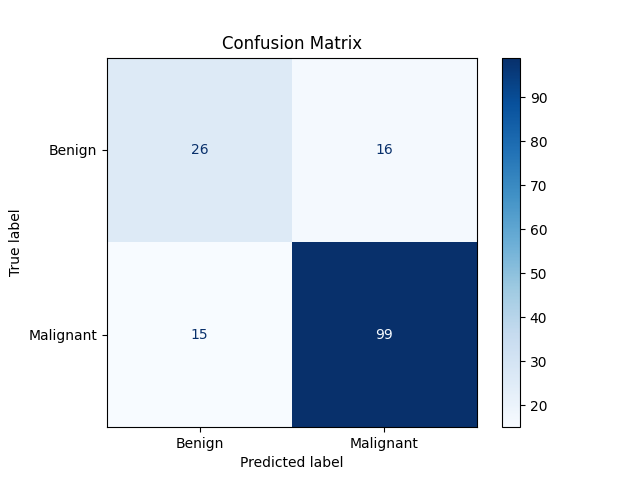
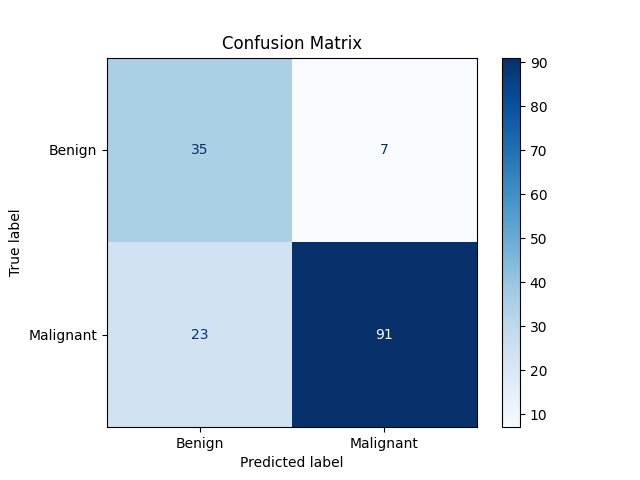
Add Random Forest Classifier implementation and evaluation metrics; update CNN-SVM metrics; include PCA visualization and confusion matrix; refactor main.py to import new ensemble module

diff --git a/A/CNN_DT_RF_Ensemble.py b/A/CNN_DT_RF_Ensemble.py
@@ -7,13 +7,14 @@ from sklearn.svm import SVC
 from sklearn.preprocessing import StandardScaler
 from sklearn.model_selection import GridSearchCV, learning_curve
 from sklearn.metrics import (
-    confusion_matrix, roc_curve, precision_recall_curve, accuracy_score, roc_auc_score
+    confusion_matrix, roc_curve, precision_recall_curve, accuracy_score, roc_auc_score, f1_score,classification_report, precision_score, recall_score
 )
 from sklearn.ensemble import RandomForestClassifier
 from sklearn.decomposition import PCA
 from sklearn.tree import DecisionTreeClassifier, plot_tree
 from imblearn.over_sampling import SMOTE
 import matplotlib.pyplot as plt
+import seaborn as sns
 
 # Suppress TensorFlow logs
 os.environ['TF_CPP_MIN_LOG_LEVEL'] = '2'
@@ -130,40 +131,102 @@ dt_model, val_auc_dt, test_auc_dt, val_acc_dt, test_acc_dt, dt_grid = evaluate_m
     DecisionTreeClassifier(random_state=42), dt_params, train_features, y_train, val_features, y_val, test_features, y_test
 )
 
-# Random Forest
-rf_params = {
-    'n_estimators': [50, 100, 200],
-    'max_depth': [None, 5, 10, 20],
-    'min_samples_split': [2, 5, 10]
-}
-rf_model, val_auc_rf, test_auc_rf, val_acc_rf, test_acc_rf, rf_grid = evaluate_model(
-    RandomForestClassifier(random_state=42), rf_params, train_features, y_train, val_features, y_val, test_features, y_test
-)
+# ---------------------------
+# Random Forest Classifier and Evaluation
+# ---------------------------
+save_dir = r'C:\Users\dariu\Documents\1. UCL\4th Year\Applied Machine Learning Systems I\AMLS_24-25_SN21026121\A'
+os.makedirs(save_dir, exist_ok=True)
 
-print("Model Comparison:")
-print(f"Decision Tree  - Validation AUC: {val_auc_dt:.4f}, Test AUC: {test_auc_dt:.4f}, Validation ACC: {val_acc_dt:.4f}, Test ACC: {test_acc_dt:.4f}")
-print(f"Random Forest  - Validation AUC: {val_auc_rf:.4f}, Test AUC: {test_auc_rf:.4f}, Validation ACC: {val_acc_rf:.4f}, Test ACC: {test_acc_rf:.4f}")
+# Train Random Forest Classifier
+rf_model = RandomForestClassifier(random_state=42)
+rf_model.fit(x_train.reshape(x_train.shape[0], -1), y_train)
+
+# Predictions and probabilities
+x_test_flat = x_test.reshape(x_test.shape[0], -1)
+y_pred = rf_model.predict(x_test_flat)
+y_pred_prob = rf_model.predict_proba(x_test_flat)[:, 1]
+
+# Metrics
+accuracy = accuracy_score(y_test, y_pred)
+precision = precision_score(y_test, y_pred)
+recall = recall_score(y_test, y_pred)
+f1 = f1_score(y_test, y_pred)
+roc_auc = roc_auc_score(y_test, y_pred_prob)
+
+# Save metrics to a text file
+metrics_file_path = os.path.join(save_dir, "random_forest_metrics.txt")
+with open(metrics_file_path, "w") as f:
+    f.write(f"Accuracy: {accuracy:.4f}\n")
+    f.write(f"Precision: {precision:.4f}\n")
+    f.write(f"Recall: {recall:.4f}\n")
+    f.write(f"F1 Score: {f1:.4f}\n")
+    f.write(f"ROC AUC: {roc_auc:.4f}\n")
+print(f"Metrics saved to {metrics_file_path}")
+
+# Plot and save ROC curve
+fpr, tpr, _ = roc_curve(y_test, y_pred_prob)
+plt.figure(figsize=(8, 6))
+plt.plot(fpr, tpr, label=f"ROC Curve (AUC = {roc_auc:.4f})")
+plt.plot([0, 1], [0, 1], 'k--', label="Random Guess")
+plt.xlabel("False Positive Rate")
+plt.ylabel("True Positive Rate")
+plt.title("ROC Curve for Random Forest Classifier")
+plt.legend()
+roc_curve_path = os.path.join(save_dir, "random_forest_roc_curve.png")
+plt.savefig(roc_curve_path)
+plt.close()
+print(f"ROC curve saved to {roc_curve_path}")
+# ---------------------------
+# Accuracy and F1 Score Evaluation
+# ---------------------------
+dt_predictions = dt_model.predict(test_features)
+dt_accuracy = accuracy_score(y_test, dt_predictions)
+dt_f1 = f1_score(y_test, dt_predictions, average='binary')
+
+# Save metrics to a text file
+metrics_file = r'C:\Users\dariu\Documents\1. UCL\4th Year\Applied Machine Learning Systems I\AMLS_24-25_SN21026121\A\decision_tree_metrics.txt'
+with open(metrics_file, 'w') as file:
+    file.write(f"Decision Tree Accuracy: {dt_accuracy:.4f}\n")
+    file.write(f"Decision Tree F1 Score: {dt_f1:.4f}\n")
+    file.write("\nClassification Report:\n")
+    file.write(classification_report(y_test, dt_predictions))
+
+print(f"Metrics saved to {metrics_file}")
 
 # ---------------------------
-# Visualisations
+# Confusion Matrix
 # ---------------------------
-def plot_learning_curve(estimator, X, y, title):
-    train_sizes, train_scores, val_scores = learning_curve(
-        estimator, X, y, cv=3, n_jobs=-1, train_sizes=np.linspace(0.1, 1.0, 5), scoring='accuracy'
+conf_matrix = confusion_matrix(y_test, dt_predictions)
+plt.figure(figsize=(8, 6))
+sns.heatmap(conf_matrix, annot=True, fmt='d', cmap='Blues', xticklabels=['Benign', 'Malignant'], yticklabels=['Benign', 'Malignant'])
+plt.title('Confusion Matrix')
+plt.xlabel('Predicted')
+plt.ylabel('Actual')
+conf_matrix_file = r'C:\Users\dariu\Documents\1. UCL\4th Year\Applied Machine Learning Systems I\AMLS_24-25_SN21026121\A\confusion_matrix.png'
+plt.savefig(conf_matrix_file)
+plt.close()
+print(f"Confusion matrix saved as '{conf_matrix_file}'")
+
+# ---------------------------
+# PCA Plot
+# ---------------------------
+pca = PCA(n_components=2)
+pca_features = pca.fit_transform(test_features)
+
+plt.figure(figsize=(10, 8))
+for label in np.unique(y_test):
+    plt.scatter(
+        pca_features[y_test == label, 0],
+        pca_features[y_test == label, 1],
+        label=f"Class {label}", alpha=0.7
     )
+plt.title('PCA Visualization')
+plt.xlabel('Principal Component 1')
+plt.ylabel('Principal Component 2')
+plt.legend()
+plt.grid()
+pca_plot_file = r'C:\Users\dariu\Documents\1. UCL\4th Year\Applied Machine Learning Systems I\AMLS_24-25_SN21026121\A\pca_plot.png'
+plt.savefig(pca_plot_file)
+plt.close()
+print(f"PCA plot saved as '{pca_plot_file}'")
 
-    plt.plot(train_sizes, train_scores.mean(axis=1), label='Train')
-    plt.plot(train_sizes, val_scores.mean(axis=1), label='Validation')
-    plt.fill_between(train_sizes, train_scores.mean(axis=1) - train_scores.std(axis=1),
-                     train_scores.mean(axis=1) + train_scores.std(axis=1), alpha=0.2)
-    plt.fill_between(train_sizes, val_scores.mean(axis=1) - val_scores.std(axis=1),
-                     val_scores.mean(axis=1) + val_scores.std(axis=1), alpha=0.2)
-    plt.title(title)
-    plt.xlabel("Training Size")
-    plt.ylabel("Accuracy")
-    plt.legend()
-    plt.grid()
-    plt.show()
-
-plot_learning_curve(dt_model, train_features, y_train, "Decision Tree Learning Curve")
-plot_learning_curve(rf_model, train_features, y_train, "Random Forest Learning Curve")

diff --git a/main.py b/main.py
@@ -1,8 +1,10 @@
 # main.py
 from A import CNN_SVM
+from A import CNN_DT_RF_Ensemble
 
 def main():
-    CNN_SVM
+    #CNN_SVM
+    CNN_DT_RF_Ensemble
 
 if __name__ == "__main__":
     main()
